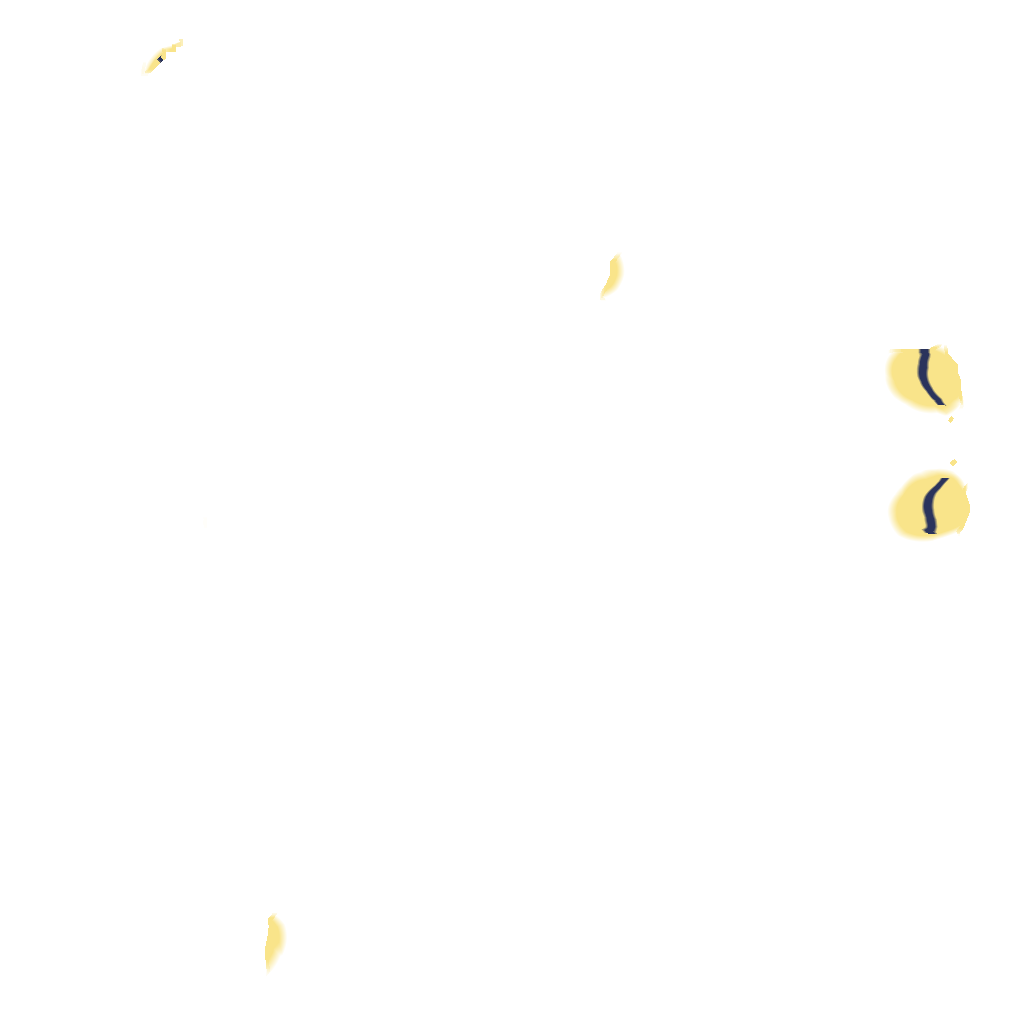
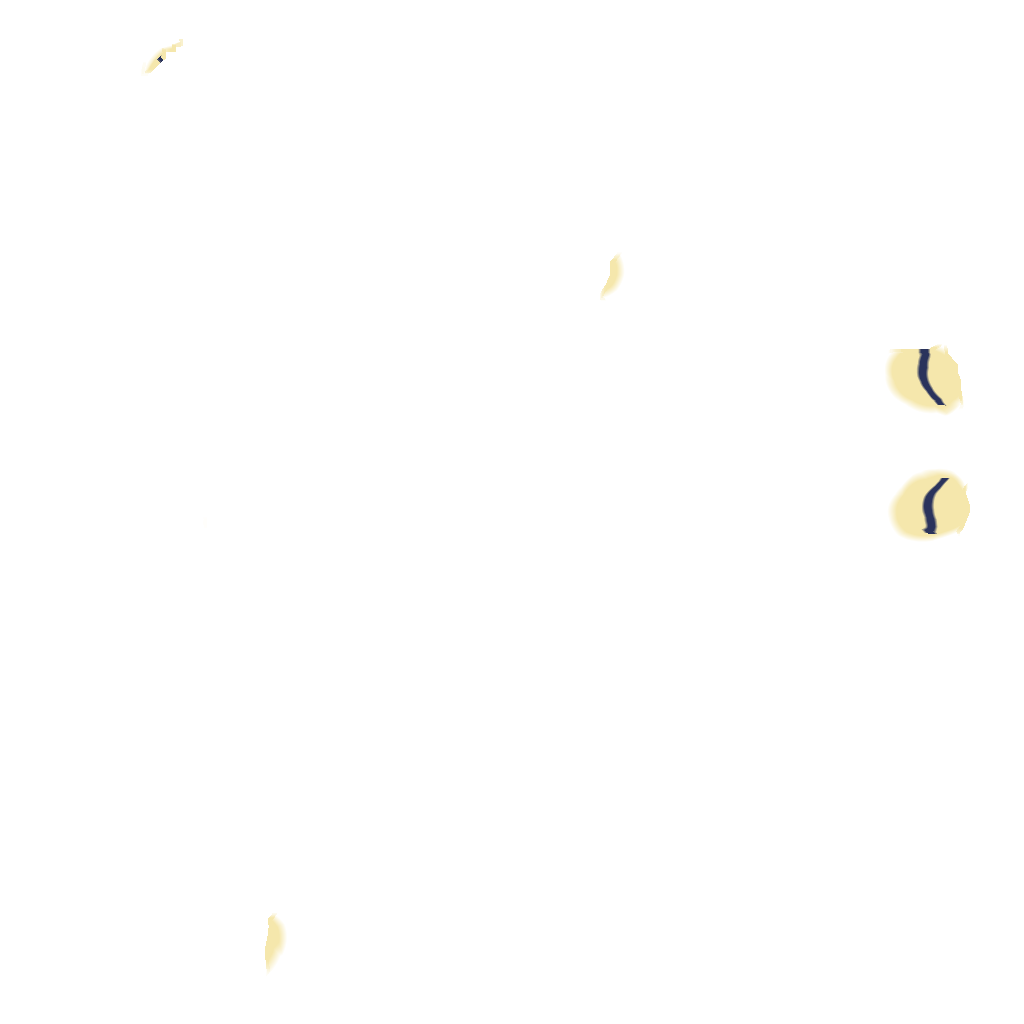
Release 20261206i (src e58662a)

diff --git a/js/bee.js b/js/bee.js
@@ -1,1 +1,1 @@
-const BEE={url:"img/models/mon_bee",v:3,face:null,stingG:null,stingM:null},BEE_S=1.55,BEE_HOVER=1.15;function beeMats(){BEE.face||(BEE.face=monFaceTex(BEE.url,BEE.v))}const BEE_WOB="\n  {vec3 p0=transformed;float ax=abs(p0.x),sx=sign(p0.x);\n   float ww=max(smoothstep(-0.2,-0.27,p0.z),smoothstep(0.24,0.3,ax)*smoothstep(-0.02,-0.08,p0.z));/* 翅膀：背後那片＋往兩側伸出去的部分 */\n   if(ww>0.){float a=uBee.x*ww*sx;vec2 d=vec2(p0.x,p0.z+0.22);transformed.xz=vec2(d.x*cos(a)+d.y*sin(a),-d.x*sin(a)+d.y*cos(a)-0.22);}\n   float wa=smoothstep(0.24,0.32,p0.y)*smoothstep(0.05,0.1,ax);/* 觸角：頭頂兩根 */\n   if(wa>0.){float a=uBee.y*wa*sx;vec2 pv=vec2(0.08*sx,0.24);vec2 d=p0.xy-pv;transformed.xy=pv+vec2(d.x*cos(a)-d.y*sin(a),d.x*sin(a)+d.y*cos(a));}}";function makeBee(e=1){beeMats();const t=new THREE.Group,a=new THREE.Group;t.add(a),a.scale.setScalar(1.55*e);const n={value:new THREE.Vector2},s=new THREE.MeshToonMaterial({color:16777215,map:BEE.face.open,gradientMap:"undefined"!=typeof gradSoft?gradSoft:gradMap,emissive:0});matWrap(s,"beewob",e=>{e.uniforms.uBee=n,e.vertexShader="uniform vec2 uBee;\n"+e.vertexShader.replace("#include <begin_vertex>","#include <begin_vertex>"+BEE_WOB)});const o=new THREE.MeshDepthMaterial({depthPacking:THREE.RGBADepthPacking});matWrap(o,"beewobd",e=>{e.uniforms.uBee=n,e.vertexShader="uniform vec2 uBee;\n"+e.vertexShader.replace("#include <begin_vertex>","#include <begin_vertex>"+BEE_WOB)}),mpetGeo(BEE.url+".bin?v="+BEE.v,e=>{if(!e)return;const t=new THREE.Mesh(e,s);t.castShadow=!0,t.customDepthMaterial=o,a.add(t)});let i="";const setFace=e=>{const t=monFaceKey(e);t!==i&&(i=t,s.map=BEE.face[t]||BEE.face.open)};return setFace("open"),{g:t,m:a,tick:function tick(e,t){n.value.set(.42*Math.sin(e*(t?58:44)),.12*Math.sin(3.1*e)+.03*Math.sin(17*e)),a.position.y=.09*Math.sin(3.2*e)+.012*Math.sin(27*e),a.rotation.z=.06*Math.sin(2.3*e)},setFace,mat:s}}function beePreload(){beeMats(),mpetGeo(BEE.url+".bin?v="+BEE.v,()=>{})}function beeSpawn(e){const t=treantSpot(e,16);if(!t)return;const[a,n]=t,s=makeBee(1),o=s.g;o.scale.setScalar(.01);const{bar:i,fg:r}=fmonBar(o,1.05);o.position.set(a,fH(a,n)+1.15,n),scene.add(o);const c=isNight(),p=monLvPick(monZoneOf(e)),h=Math.round(1.6*monHpL(c?6:4,.8,p));monsters.push({fmon:1,bee:1,upd:beeMon,forest:e.id,X:s,g:o,c:{m:s.m,setFace:s.setFace},mat:s.mat,bar:i,fg:r,x:a,z:n,y:1.15,vy:0,hp:h,max:h,size:1,rad:.5,t:5*Math.random(),dir:6.28*Math.random(),wt:R(1,3),kx:0,kz:0,cool:0,dead:-1,flash:0,spawn:0,ifr:0,shake:0,night:c,sq:0,sqv:0,ml:p,xpT:monXp(p,c?MON_TIER.beeN:MON_TIER.bee),dmg:monDmg(c?4:2,p),coin:c?8:6,xpN:c?12:10,xpV:3,gem:.05,st:"roam",stT:0,orb:Math.random()<.5?1:-1,stingT:R(3,5),diveT:R(2,3.5)})}const BEE_STINGS=[];function beeSting(e){BEE.stingG||(BEE.stingG=new THREE.ConeGeometry(.06,.32,8),BEE.stingG.rotateX(Math.PI/2),BEE.stingM=new THREE.MeshBasicMaterial({color:5913118}));const t=fH(e.x,e.z)+e.y,a=ply.y+.7,n=ply.x-e.x,s=ply.z-e.z,o=Math.hypot(n,s)||1,i=new THREE.Mesh(BEE.stingG,BEE.stingM);i.position.set(e.x,t,e.z),i.lookAt(ply.x,a,ply.z),scene.add(i);BEE_STINGS.push({s:i,vx:n/o*11,vz:s/o*11,vy:(a-t)/o*11,t:0,m:e}),SFX.whoosh&&SFX.whoosh()}function beeStingsTick(e){for(let t=BEE_STINGS.length-1;t>=0;t--){const a=BEE_STINGS[t],n=a.s.position;a.t+=e,n.x+=a.vx*e,n.y+=a.vy*e,n.z+=a.vz*e,Math.random()<.4&&burst(n.x,n.y,n.z,[16769658,16774856],1,.6,partG,.25,0);const s=Math.hypot(ply.x-n.x,ply.z-n.z)<.55&&Math.abs(ply.y+.7-n.y)<.8;if(s&&ply.ifr<=0&&!ply.riding&&!ply.downed&&!tryDodge(a.m)){const e=a.m;ply.ifr=.7,ply.hp-=takeDmg(Math.max(1,Math.round(.7*e.dmg)),e),SFX.hurt(),P.sqv-=3,hurtFX(),updateHUD(),burst(n.x,n.y,n.z,[16769658,16777215],8,3),ply.hp<=0&&(ply.hp=0,playerKO("被澎蜂的毒針射倒了…"))}(s||a.t>1.6||n.y<fH(n.x,n.z))&&(scene.remove(a.s),BEE_STINGS.splice(t,1))}}function beeMon(e,t,a){{const e=renderer.info.render.frame;BEE_STINGS._f!==e&&(BEE_STINGS._f=e,beeStingsTick(t))}if(!fmonPre(e,t,a,e=>{const t=fH(e.x,e.z)+e.y;burst(e.x,t,e.z,[16765502,16774084,7028511,16777215],20,5),puff(e.x,t,e.z,16774876,1),SFX.squish&&SFX.squish()}))return;const n=e.X,s=e.stunT>0||e.frozenT>0,o=ply.x-e.x,i=ply.z-e.z,r=Math.hypot(o,i)||.01,c=fmonSee()&&fFloor(ply.x).id===e.forest,p=e.slowT>0?e.slowF||.6:1;let h=0,d=0,l=!1,m=null,E=1.15;if(e.cool-=t,e.stT-=t,e.stingT-=t,e.diveT-=t,s)E=.55;else if(c&&r<12)if(e.faceLock="angry",m=Math.atan2(o,i),l=!0,"wind"===e.st)h=-o/r*1.6,d=-i/r*1.6,E=1.4,e.shake=Math.max(e.shake,.05),e.stT<=0&&(e.st="dive",e.stT=.42,e.dvx=o/r,e.dvz=i/r,SFX.whoosh&&SFX.whoosh());else if("dive"===e.st)h=12*e.dvx,d=12*e.dvz,E=.75,m=Math.atan2(e.dvx,e.dvz),Math.random()<.6&&burst(e.x,fH(e.x,e.z)+e.y,e.z,[16774084,16777215],1,1,partG,.3,0),r<.95+e.rad&&e.cool<=0&&ply.ifr<=0&&!ply.riding&&!ply.sitting&&!tryDodge(e)&&(e.cool=1.2,fmonBite(e,o,i,r,"被澎蜂刺倒了…"),burst(ply.x,ply.y+.8,ply.z,[16765502,16777215],10,3.5),e.stT=0),e.stT<=0&&(e.st="chase",e.diveT=R(3,4.5));else if("aim"===e.st)E=1.15+.15,n.m.rotation.x=-.35*(1-Math.max(0,e.stT)/.5),e.stT<=0&&(beeSting(e),e.st="chase",e.stingT=R(4,6),n.m.rotation.x=0);else{e.st="chase";const a=r-2.6,n=-i/r*e.orb,s=o/r*e.orb;h=(o/r*Math.max(-1,Math.min(1,a))*3.2+2.2*n)*p,d=(i/r*Math.max(-1,Math.min(1,a))*3.2+2.2*s)*p,Math.random()<.3*t&&(e.orb*=-1),e.diveT<=0&&r<5?(e.st="wind",e.stT=.55):e.stingT<=0&&r>3.5&&r<9&&(e.st="aim",e.stT=.5)}else"roam"!==e.st&&(e.st="roam",e.faceLock=null,n.m.rotation.x=0),e.wt-=t,e.wt<=0&&(e.wt=R(2,4),e.dir=Math.random()<.3?-1:6.28*Math.random()),e.dir>=0&&(h=1.6*Math.sin(e.dir),d=1.6*Math.cos(e.dir));e.x+=(h+e.kx)*t,e.z+=(d+e.kz)*t,e.kx*=Math.pow(.008,t),e.kz*=Math.pow(.008,t),fmonCollide(e),forestClamp(e,.8),e.y+=(E-e.y)*Math.min(1,t*("dive"===e.st?8:3));let f=0,x=0;e.shake>0&&(e.shake-=t,f=.08*Math.sin(90*e.shake),x=.06*Math.cos(70*e.shake)),e.g.position.set(e.x+f,fH(e.x,e.z)+e.y,e.z+x),fmonTurn(e,h,d,m,t,8),Math.hypot(e.x-ply.x,e.z-ply.z)<60&&n.tick(e.t,l||"dive"===e.st)}
+const BEE={url:"img/models/mon_bee",v:4,face:null,stingG:null,stingM:null},BEE_S=1.55,BEE_HOVER=1.15;function beeMats(){BEE.face||(BEE.face=monFaceTex(BEE.url,BEE.v))}const BEE_WOB="\n  {vec3 p0=transformed;float ax=abs(p0.x),sx=sign(p0.x);\n   float ww=max(smoothstep(-0.2,-0.27,p0.z),smoothstep(0.24,0.3,ax)*smoothstep(-0.02,-0.08,p0.z));/* 翅膀：背後那片＋往兩側伸出去的部分 */\n   if(ww>0.){float a=uBee.x*ww*sx;vec2 d=vec2(p0.x,p0.z+0.22);transformed.xz=vec2(d.x*cos(a)+d.y*sin(a),-d.x*sin(a)+d.y*cos(a)-0.22);}\n   float wa=smoothstep(0.24,0.32,p0.y)*smoothstep(0.05,0.1,ax);/* 觸角：頭頂兩根 */\n   if(wa>0.){float a=uBee.y*wa*sx;vec2 pv=vec2(0.08*sx,0.24);vec2 d=p0.xy-pv;transformed.xy=pv+vec2(d.x*cos(a)-d.y*sin(a),d.x*sin(a)+d.y*cos(a));}}";function makeBee(e=1){beeMats();const t=new THREE.Group,a=new THREE.Group;t.add(a),a.scale.setScalar(1.55*e);const n={value:new THREE.Vector2},s=new THREE.MeshToonMaterial({color:14737632,map:BEE.face.open,gradientMap:"undefined"!=typeof gradSoft?gradSoft:gradMap,emissive:0});matWrap(s,"beewob",e=>{e.uniforms.uBee=n,e.vertexShader="uniform vec2 uBee;\n"+e.vertexShader.replace("#include <begin_vertex>","#include <begin_vertex>"+BEE_WOB)});const o=new THREE.MeshDepthMaterial({depthPacking:THREE.RGBADepthPacking});matWrap(o,"beewobd",e=>{e.uniforms.uBee=n,e.vertexShader="uniform vec2 uBee;\n"+e.vertexShader.replace("#include <begin_vertex>","#include <begin_vertex>"+BEE_WOB)}),mpetGeo(BEE.url+".bin?v="+BEE.v,e=>{if(!e)return;const t=new THREE.Mesh(e,s);t.castShadow=!0,t.customDepthMaterial=o,a.add(t)});let i="";const setFace=e=>{const t=monFaceKey(e);t!==i&&(i=t,s.map=BEE.face[t]||BEE.face.open)};return setFace("open"),{g:t,m:a,tick:function tick(e,t){n.value.set(.42*Math.sin(e*(t?58:44)),.12*Math.sin(3.1*e)+.03*Math.sin(17*e)),a.position.y=.09*Math.sin(3.2*e)+.012*Math.sin(27*e),a.rotation.z=.06*Math.sin(2.3*e)},setFace,mat:s}}function beePreload(){beeMats(),mpetGeo(BEE.url+".bin?v="+BEE.v,()=>{})}function beeSpawn(e){const t=treantSpot(e,16);if(!t)return;const[a,n]=t,s=makeBee(1),o=s.g;o.scale.setScalar(.01);const{bar:i,fg:r}=fmonBar(o,1.05);o.position.set(a,fH(a,n)+1.15,n),scene.add(o);const c=isNight(),p=monLvPick(monZoneOf(e)),h=Math.round(1.6*monHpL(c?6:4,.8,p));monsters.push({fmon:1,bee:1,upd:beeMon,forest:e.id,X:s,g:o,c:{m:s.m,setFace:s.setFace},mat:s.mat,bar:i,fg:r,x:a,z:n,y:1.15,vy:0,hp:h,max:h,size:1,rad:.5,t:5*Math.random(),dir:6.28*Math.random(),wt:R(1,3),kx:0,kz:0,cool:0,dead:-1,flash:0,spawn:0,ifr:0,shake:0,night:c,sq:0,sqv:0,ml:p,xpT:monXp(p,c?MON_TIER.beeN:MON_TIER.bee),dmg:monDmg(c?4:2,p),coin:c?8:6,xpN:c?12:10,xpV:3,gem:.05,st:"roam",stT:0,orb:Math.random()<.5?1:-1,stingT:R(3,5),diveT:R(2,3.5)})}const BEE_STINGS=[];function beeSting(e){BEE.stingG||(BEE.stingG=new THREE.ConeGeometry(.06,.32,8),BEE.stingG.rotateX(Math.PI/2),BEE.stingM=new THREE.MeshBasicMaterial({color:5913118}));const t=fH(e.x,e.z)+e.y,a=ply.y+.7,n=ply.x-e.x,s=ply.z-e.z,o=Math.hypot(n,s)||1,i=new THREE.Mesh(BEE.stingG,BEE.stingM);i.position.set(e.x,t,e.z),i.lookAt(ply.x,a,ply.z),scene.add(i);BEE_STINGS.push({s:i,vx:n/o*11,vz:s/o*11,vy:(a-t)/o*11,t:0,m:e}),SFX.whoosh&&SFX.whoosh()}function beeStingsTick(e){for(let t=BEE_STINGS.length-1;t>=0;t--){const a=BEE_STINGS[t],n=a.s.position;a.t+=e,n.x+=a.vx*e,n.y+=a.vy*e,n.z+=a.vz*e,Math.random()<.4&&burst(n.x,n.y,n.z,[16769658,16774856],1,.6,partG,.25,0);const s=Math.hypot(ply.x-n.x,ply.z-n.z)<.55&&Math.abs(ply.y+.7-n.y)<.8;if(s&&ply.ifr<=0&&!ply.riding&&!ply.downed&&!tryDodge(a.m)){const e=a.m;ply.ifr=.7,ply.hp-=takeDmg(Math.max(1,Math.round(.7*e.dmg)),e),SFX.hurt(),P.sqv-=3,hurtFX(),updateHUD(),burst(n.x,n.y,n.z,[16769658,16777215],8,3),ply.hp<=0&&(ply.hp=0,playerKO("被澎蜂的毒針射倒了…"))}(s||a.t>1.6||n.y<fH(n.x,n.z))&&(scene.remove(a.s),BEE_STINGS.splice(t,1))}}function beeMon(e,t,a){{const e=renderer.info.render.frame;BEE_STINGS._f!==e&&(BEE_STINGS._f=e,beeStingsTick(t))}if(!fmonPre(e,t,a,e=>{const t=fH(e.x,e.z)+e.y;burst(e.x,t,e.z,[16765502,16774084,7028511,16777215],20,5),puff(e.x,t,e.z,16774876,1),SFX.squish&&SFX.squish()}))return;const n=e.X,s=e.stunT>0||e.frozenT>0,o=ply.x-e.x,i=ply.z-e.z,r=Math.hypot(o,i)||.01,c=fmonSee()&&fFloor(ply.x).id===e.forest,p=e.slowT>0?e.slowF||.6:1;let h=0,d=0,l=!1,m=null,E=1.15;if(e.cool-=t,e.stT-=t,e.stingT-=t,e.diveT-=t,s)E=.55;else if(c&&r<12)if(e.faceLock="angry",m=Math.atan2(o,i),l=!0,"wind"===e.st)h=-o/r*1.6,d=-i/r*1.6,E=1.4,e.shake=Math.max(e.shake,.05),e.stT<=0&&(e.st="dive",e.stT=.42,e.dvx=o/r,e.dvz=i/r,SFX.whoosh&&SFX.whoosh());else if("dive"===e.st)h=12*e.dvx,d=12*e.dvz,E=.75,m=Math.atan2(e.dvx,e.dvz),Math.random()<.6&&burst(e.x,fH(e.x,e.z)+e.y,e.z,[16774084,16777215],1,1,partG,.3,0),r<.95+e.rad&&e.cool<=0&&ply.ifr<=0&&!ply.riding&&!ply.sitting&&!tryDodge(e)&&(e.cool=1.2,fmonBite(e,o,i,r,"被澎蜂刺倒了…"),burst(ply.x,ply.y+.8,ply.z,[16765502,16777215],10,3.5),e.stT=0),e.stT<=0&&(e.st="chase",e.diveT=R(3,4.5));else if("aim"===e.st)E=1.15+.15,n.m.rotation.x=-.35*(1-Math.max(0,e.stT)/.5),e.stT<=0&&(beeSting(e),e.st="chase",e.stingT=R(4,6),n.m.rotation.x=0);else{e.st="chase";const a=r-2.6,n=-i/r*e.orb,s=o/r*e.orb;h=(o/r*Math.max(-1,Math.min(1,a))*3.2+2.2*n)*p,d=(i/r*Math.max(-1,Math.min(1,a))*3.2+2.2*s)*p,Math.random()<.3*t&&(e.orb*=-1),e.diveT<=0&&r<5?(e.st="wind",e.stT=.55):e.stingT<=0&&r>3.5&&r<9&&(e.st="aim",e.stT=.5)}else"roam"!==e.st&&(e.st="roam",e.faceLock=null,n.m.rotation.x=0),e.wt-=t,e.wt<=0&&(e.wt=R(2,4),e.dir=Math.random()<.3?-1:6.28*Math.random()),e.dir>=0&&(h=1.6*Math.sin(e.dir),d=1.6*Math.cos(e.dir));e.x+=(h+e.kx)*t,e.z+=(d+e.kz)*t,e.kx*=Math.pow(.008,t),e.kz*=Math.pow(.008,t),fmonCollide(e),forestClamp(e,.8),e.y+=(E-e.y)*Math.min(1,t*("dive"===e.st?8:3));let f=0,x=0;e.shake>0&&(e.shake-=t,f=.08*Math.sin(90*e.shake),x=.06*Math.cos(70*e.shake)),e.g.position.set(e.x+f,fH(e.x,e.z)+e.y,e.z+x),fmonTurn(e,h,d,m,t,8),Math.hypot(e.x-ply.x,e.z-ply.z)<60&&n.tick(e.t,l||"dive"===e.st)}

diff --git a/index.html b/index.html
@@ -1,6 +1,6 @@
 <!DOCTYPE html>
 <html lang="zh-Hant">
-<head><meta name="lf-ver" content="20261206h"><script>window.JSV={"js/audio.js":"ececf928e7","js/bars.js":"8260952620","js/bee.js":"50ac309248","js/cave.js":"76239ff7ae","js/cloud.js":"9c73bb52ef","js/compat.js":"69e7ff7c78","js/critter.js":"eb0c6b585e","js/daily.js":"85533c0f33","js/engine.js":"be3611f540","js/extra.js":"2385c8bec7","js/forest.js":"1890467a83","js/game.js":"d13ee4e428","js/gfield.js":"a4c26eefce","js/gfx.js":"551170e461","js/gsta.js":"8e6bedf2cd","js/guild.js":"6932325442","js/harbor.js":"33017b3e03","js/interior.js":"656cae6243","js/items.js":"031e16b662","js/leakdog.js":"b60f2b89f6","js/mall.js":"c01f957a95","js/maps.js":"dbde1b5e29","js/mats.js":"2324258d5e","js/models.js":"493c0cabf9","js/models_acc.js":"e80fbf08ee","js/models_furn.js":"65eba98ba0","js/models_gs.js":"56d434c07e","js/models_lod.js":"7b983968bf","js/models_mist.js":"d91f1c23f8","js/models_mon.js":"c6ef4e2d3e","js/models_mv.js":"cb31b0f05b","js/models_mv_core.js":"e94d702ed3","js/monlv.js":"e776dbec7c","js/mushvil.js":"fb448ea278","js/net.js":"849d09d2b1","js/party.js":"077a707d9b","js/perf.js":"45fa0f197f","js/photo.js":"cfd58c5624","js/skills.js":"1bcd771ba3","js/slots.js":"367c3005ec","js/social.js":"7d5426f3db","js/three.min.js":"212dfd8fc1","js/trade.js":"a0e7344896","js/ui.js":"7b0f6793d2","js/upgrade.js":"bf334372f8","js/world.js":"7df111b73e"};</script>
+<head><meta name="lf-ver" content="20261206i"><script>window.JSV={"js/audio.js":"ececf928e7","js/bars.js":"8260952620","js/bee.js":"39b02f17e9","js/cave.js":"76239ff7ae","js/cloud.js":"9c73bb52ef","js/compat.js":"69e7ff7c78","js/critter.js":"eb0c6b585e","js/daily.js":"85533c0f33","js/engine.js":"be3611f540","js/extra.js":"2385c8bec7","js/forest.js":"1890467a83","js/game.js":"d13ee4e428","js/gfield.js":"a4c26eefce","js/gfx.js":"551170e461","js/gsta.js":"8e6bedf2cd","js/guild.js":"6932325442","js/harbor.js":"33017b3e03","js/interior.js":"656cae6243","js/items.js":"031e16b662","js/leakdog.js":"b60f2b89f6","js/mall.js":"c01f957a95","js/maps.js":"dbde1b5e29","js/mats.js":"2324258d5e","js/models.js":"493c0cabf9","js/models_acc.js":"e80fbf08ee","js/models_furn.js":"65eba98ba0","js/models_gs.js":"56d434c07e","js/models_lod.js":"7b983968bf","js/models_mist.js":"d91f1c23f8","js/models_mon.js":"c6ef4e2d3e","js/models_mv.js":"cb31b0f05b","js/models_mv_core.js":"e94d702ed3","js/monlv.js":"e776dbec7c","js/mushvil.js":"fb448ea278","js/net.js":"849d09d2b1","js/party.js":"077a707d9b","js/perf.js":"45fa0f197f","js/photo.js":"cfd58c5624","js/skills.js":"1bcd771ba3","js/slots.js":"367c3005ec","js/social.js":"7d5426f3db","js/three.min.js":"212dfd8fc1","js/trade.js":"a0e7344896","js/ui.js":"7b0f6793d2","js/upgrade.js":"bf334372f8","js/world.js":"7df111b73e"};</script>
 <script>/* 錯誤回報：遊戲出錯時在畫面底部顯示錯誤訊息（方便截圖回報），點一下關閉 */(function(){var shown=0;function show(m){if(shown>4)return;shown++;var d=document.getElementById('errBox');if(!d){d=document.createElement('div');d.id='errBox';d.style.cssText='position:fixed;left:8px;right:8px;bottom:8px;z-index:99999;background:rgba(160,30,40,.92);color:#fff;font:12px/1.4 monospace;padding:8px 10px;border-radius:10px;max-height:40vh;overflow:auto;white-space:pre-wrap;word-break:break-all';d.onclick=function(){d.remove();};(document.body||document.documentElement).appendChild(d);d.textContent='⚠ 遊戲發生錯誤（請截圖回報，點一下關閉）\n';}d.textContent+='\n'+m;}
 window.addEventListener('error',function(e){if(e&&e.target&&e.target!==window&&(e.target.src||e.target.href)){var u=e.target.src||e.target.href||'';if(/\/js\/[^\/]+\.js/.test(u)&&u.indexOf(location.host)>=0)show('載入失敗：'+u.split('/').pop());return;}var f=(e.filename||'').split('/').pop();show((e.message||'錯誤')+'  @ '+f+':'+(e.lineno||0)+':'+(e.colno||0));},true);
 window.addEventListener('unhandledrejection',function(e){var r=e.reason;var m=r&&(r.message||String(r))||'';if(/fetch|network|Failed to fetch|Load failed|AbortError/i.test(m))return;show('Promise：'+m);});})();</script>
@@ -1015,8 +1015,8 @@ body.darkui #chatLog div,body.darkui #hbLabel{background:rgba(0,0,0,.5)}
   <button class="qb lav close" data-close="iosFs">知道了</button></div></div>
 
 <script src="js/three.min.js?v=212dfd8fc1"></script>
-<script src="config.js?v=20261206h"></script>
-<script src="firebase-config.js?v=20261206h"></script>
+<script src="config.js?v=20261206i"></script>
+<script src="firebase-config.js?v=20261206i"></script>
 <script>/* 連線用自架伺服器（WS_URL）時不需要 Supabase 函式庫：不載入（省掉一個會擋住後面程式的外部下載） */if(!(window.LOBSTER_CONFIG&&LOBSTER_CONFIG.WS_URL))document.write('<script src="https://cdn.jsdelivr.net/npm/@supabase/supabase-js@2/dist/umd/supabase.min.js"><\/script>');</script>
 <script src="js/compat.js?v=69e7ff7c78"></script>
 <script src="js/models.js?v=493c0cabf9"></script>
@@ -1041,7 +1041,7 @@ body.darkui #chatLog div,body.darkui #hbLabel{background:rgba(0,0,0,.5)}
 <script src="js/forest.js?v=1890467a83"></script>
 <script src="js/gfield.js?v=a4c26eefce"></script>
 <script src="js/leakdog.js?v=b60f2b89f6"></script>
-<script src="js/bee.js?v=50ac309248"></script>
+<script src="js/bee.js?v=39b02f17e9"></script>
 
 <script src="js/net.js?v=849d09d2b1"></script>
 <script src="js/cloud.js?v=9c73bb52ef"></script>
